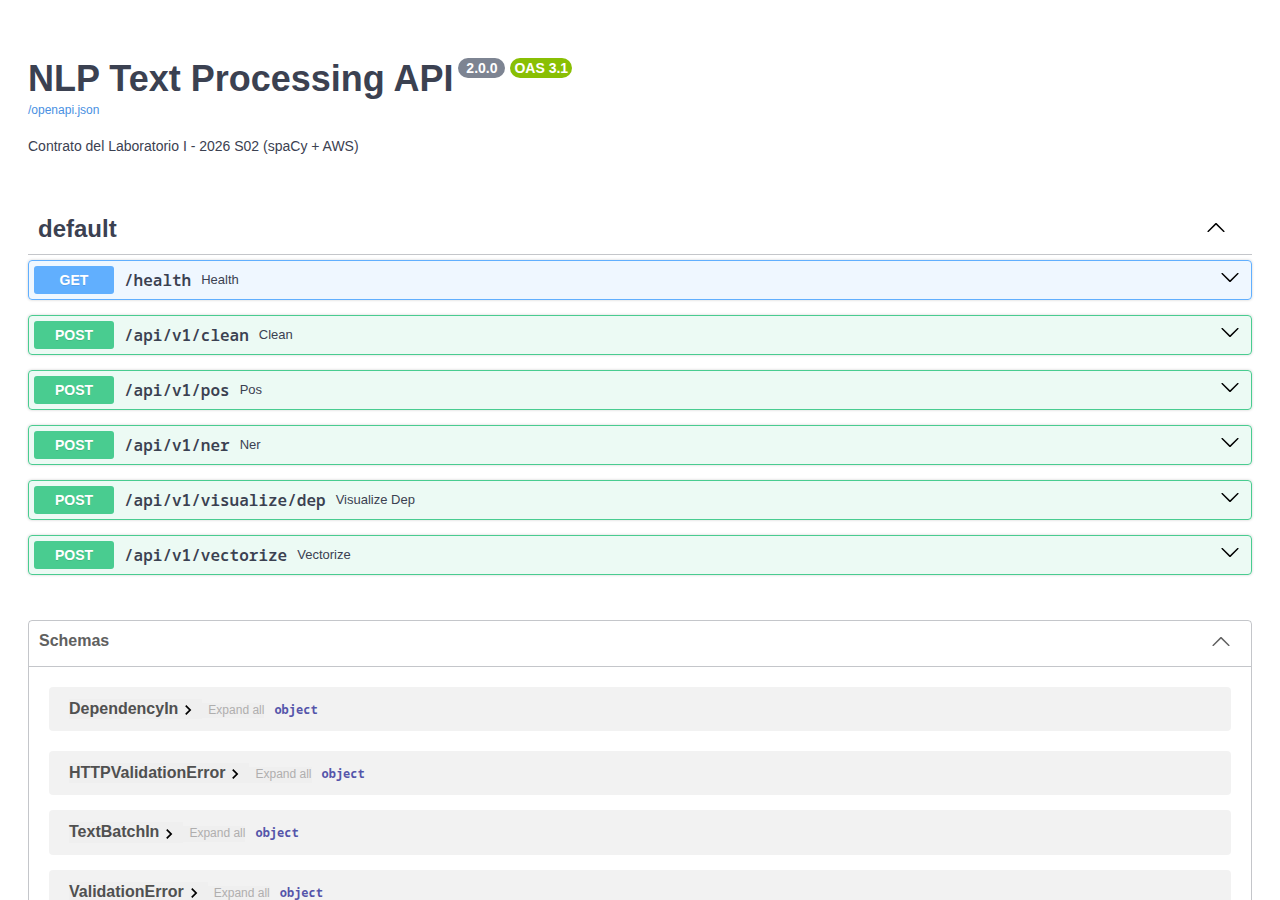
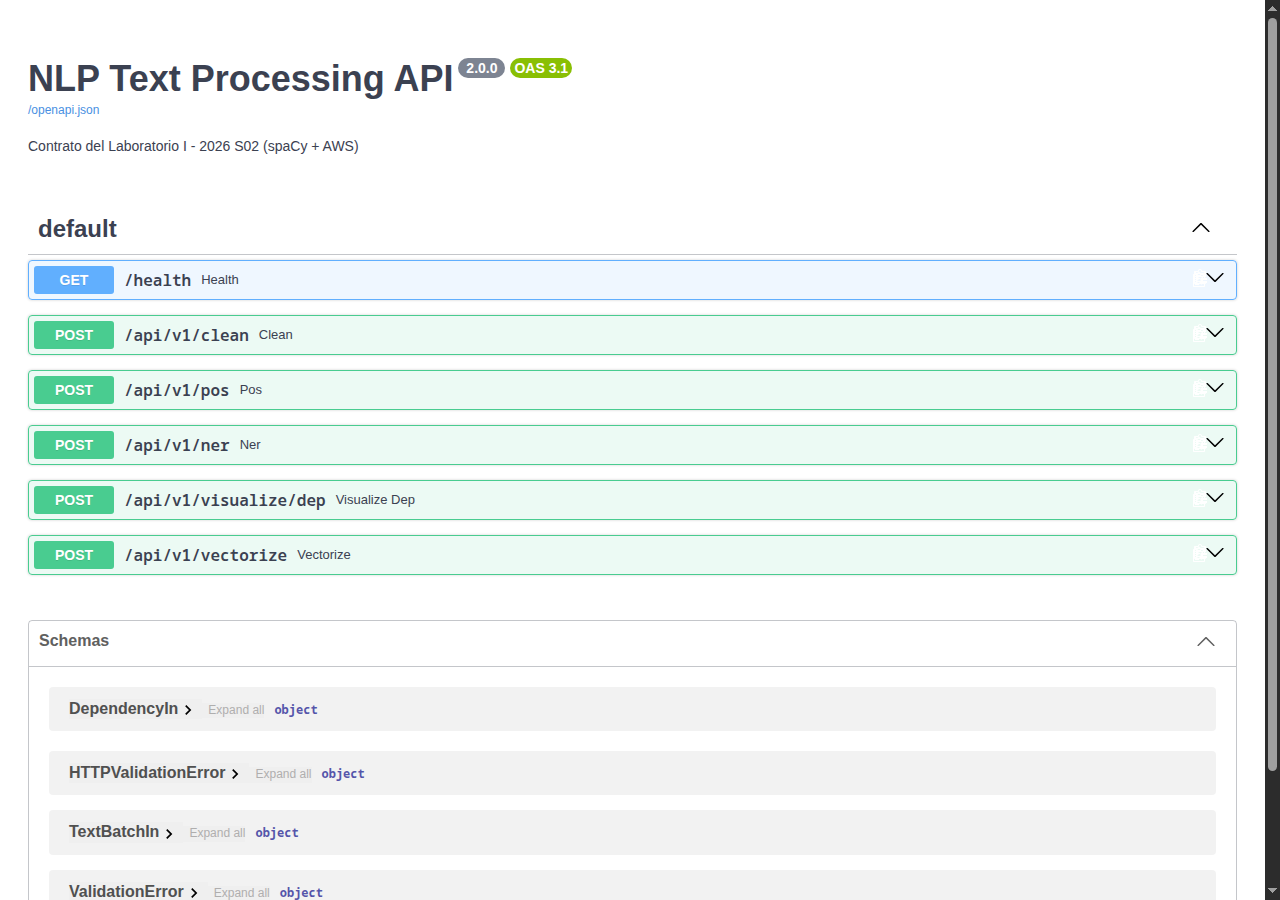
docs: regenerar capturas contra la IP actual, agregar comando curl para /visualize/dep
swagger_docs.png y dependency_tree.png eran de antes del cambio de IP,
el fix de puntuación y el de charset. Se regeneran contra 23.22.176.73.
Se agrega el comando para obtener el HTML del árbol por curl, faltaba
(solo estaba documentada la vía UI).

Changed region(s): [[0.9375, 0.0, 1.0, 1.0]]

diff --git a/README.md b/README.md
@@ -97,7 +97,19 @@ $ curl -X POST https://7jh7mtmt7a54pg7xqpnjdxf2tu0kuyia.lambda-url.us-east-1.on.
 
 ### `/api/v1/visualize/dep` y `/api/v1/ner` en vivo
 
-Salida real de `POST /api/v1/visualize/dep`:
+`/visualize/dep` devuelve un documento HTML completo (no JSON) con el SVG de displaCy embebido. Dos formas de verlo:
+
+- **Desde la [interfaz web](#interfaz-web)** (`/` en cualquiera de los despliegues): se renderiza automáticamente al analizar una frase, dentro de la tarjeta "Árbol de dependencias".
+- **Por línea de comandos**, guardando la respuesta como archivo y abriéndolo en el navegador:
+  ```bash
+  curl -X POST http://23.22.176.73:8000/api/v1/visualize/dep \
+      -H "Content-Type: application/json" \
+      -d '{"text":"El gato negro come pescado rápido"}' \
+      -o arbol.html
+  # luego: abrir arbol.html en cualquier navegador
+  ```
+
+Salida real (captura de esa misma respuesta):
 
 ![Árbol de dependencias](assets/dependency_tree.png)
 
